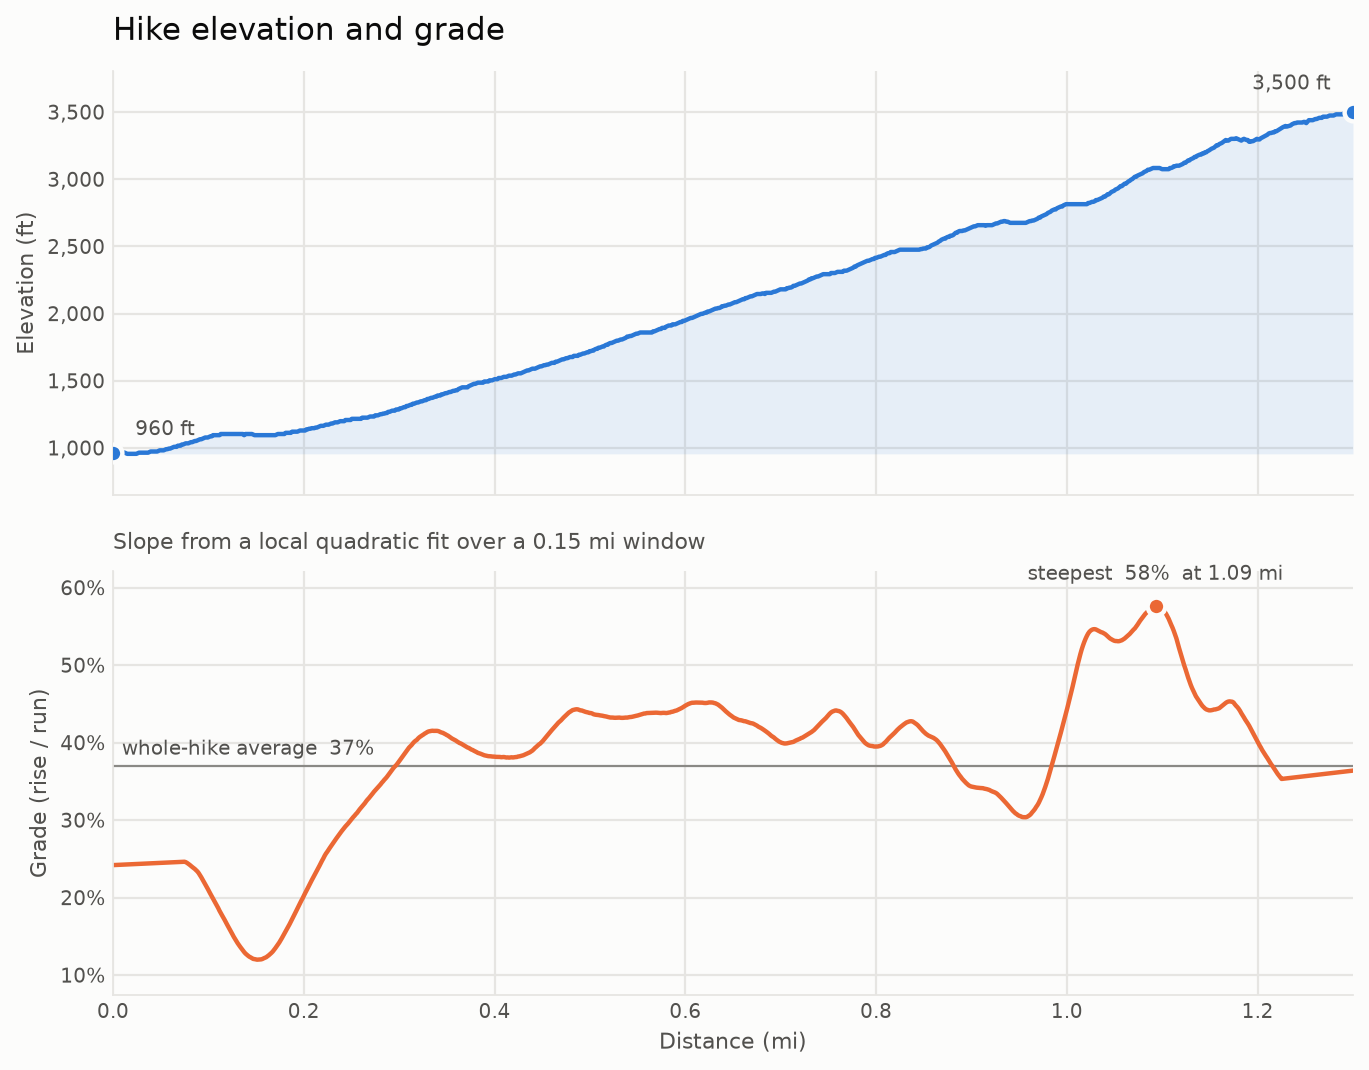
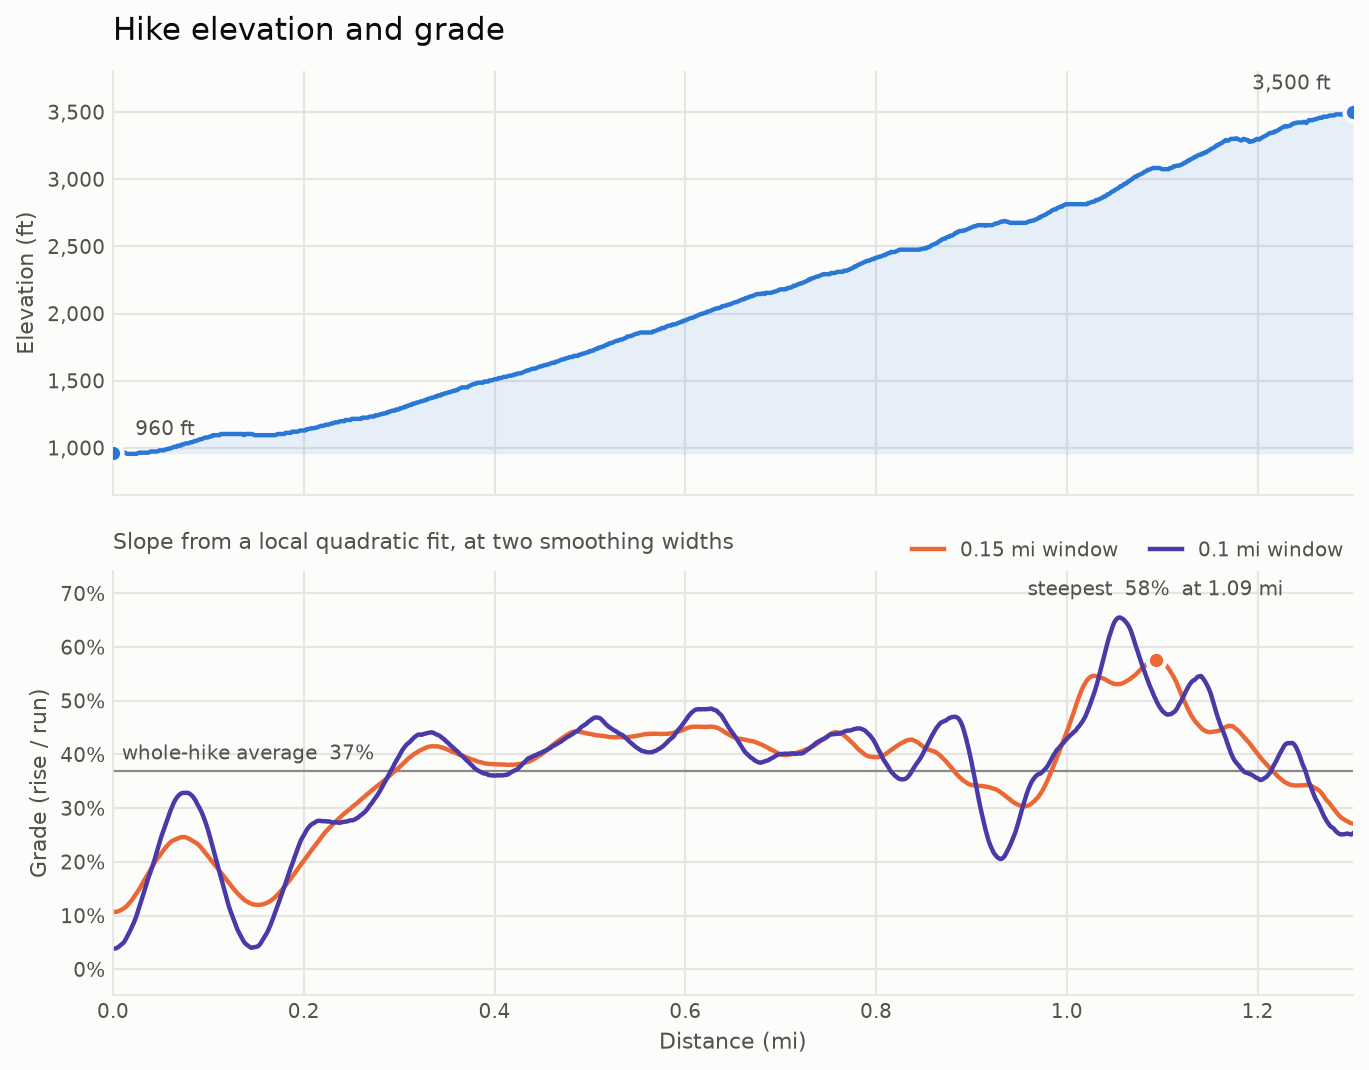
Fix edge handling of the gradient fit, add a 0.1 mi window
Pads the elevation data out a half window at each end so every sample
keeps a centred fit, instead of letting scipy evaluate the end window's
derivative off-centre. --edge selects the padding: point reflection by
default, or the quadratic extrapolation it is compared against.

--windows now defaults to 0.1 and 0.15 mi, with the broadest window
holding the first color slot so it keeps its hue as others are added.

Claude-Session: https://claude.ai/code/session_0124nTYy52PLWwbTnFQHTXTj

Changed region(s): [[0.0307, 0.4935, 0.9817, 0.9252]]

diff --git a/scripts/hike-elevation/analyze_gradient.py b/scripts/hike-elevation/analyze_gradient.py
@@ -40,7 +40,8 @@ GRID = "#e6e5e2"
 # Color follows the quantity: elevation is always slot 1, grade always slot 2,
 # so the two panels never trade hues. Extra smoothing windows take later slots.
 ELEVATION = "#2a78d6"
-GRADE = ("#eb6834", "#2a78d6", "#1baf7a")
+# The broadest window keeps slot 1, so adding a tighter one does not repaint it.
+GRADE = ("#eb6834", "#4a3aa7", "#1baf7a")
 
 
 def load(path: str):
@@ -51,12 +52,47 @@ def load(path: str):
     return x_mi, np.array([float(r[key]) for r in rows]), key
 
 
-def grade(x_mi: np.ndarray, y_ft: np.ndarray, window_mi: float) -> np.ndarray:
-    """Percent grade from a local quadratic fit over a window_mi-wide window."""
+def extend(y: np.ndarray, half: int, edge: str) -> np.ndarray:
+    """Pad y by `half` samples at each end so the fit stays centred there."""
+    half = min(half, len(y) - 1)
+    if edge == "reflect":
+        # Point reflection through the endpoint: y[-k] = 2*y[0] - y[k]. It
+        # continues the profile's slope across the boundary and flips its
+        # curvature, which is the standard extension for a derivative filter.
+        return np.pad(y, half, mode="reflect", reflect_type="odd")
+    if edge == "poly":
+        # Quadratic fitted to the outermost half-window and extrapolated out.
+        # Note this reads the curvature of the end segment as a trend to
+        # continue, so a profile that starts flat and steepens extrapolates
+        # to a negative grade before its first sample.
+        fit = max(3, half)
+        left = np.polyval(np.polyfit(np.arange(fit), y[:fit], 2),
+                          np.arange(-half, 0))
+        right = np.polyval(np.polyfit(np.arange(len(y) - fit, len(y)), y[-fit:], 2),
+                           np.arange(len(y), len(y) + half))
+        return np.concatenate([left, y, right])
+    raise ValueError(f"unknown edge mode {edge!r}")
+
+
+def grade(x_mi: np.ndarray, y_ft: np.ndarray, window_mi: float,
+          edge: str = "reflect") -> np.ndarray:
+    """Percent grade from a local quadratic fit over a window_mi-wide window.
+
+    Within a half-window of each end there is no centred window to fit. With
+    `edge="interp"` scipy fits the end window once and evaluates its derivative
+    off-centre, which swings hard where the profile curves. The other modes
+    extend the elevation data instead, so every sample keeps a centred fit.
+    """
     step_ft = float(np.mean(np.diff(x_mi))) * FEET_PER_MILE
     width = int(round(window_mi * FEET_PER_MILE / step_ft))
     width = max(5, width | 1)  # odd, and wide enough for a quadratic
-    slope = savgol_filter(y_ft, width, polyorder=2, deriv=1, delta=step_ft)
+    if edge == "interp":
+        slope = savgol_filter(y_ft, width, polyorder=2, deriv=1, delta=step_ft)
+    else:
+        half = min(width // 2, len(y_ft) - 1)
+        padded = extend(y_ft, half, edge)
+        slope = savgol_filter(padded, width, polyorder=2, deriv=1,
+                              delta=step_ft)[half:len(padded) - half]
     return slope * 100.0
 
 
@@ -65,10 +101,14 @@ def main(argv: list[str] | None = None) -> int:
                                 formatter_class=argparse.RawDescriptionHelpFormatter)
     p.add_argument("csv", help="output of digitize_elevation.py")
     p.add_argument("-o", "--out", default="gradient.png")
-    p.add_argument("--windows", type=float, nargs="+", default=(0.15,),
+    p.add_argument("--windows", type=float, nargs="+", default=(0.10, 0.15),
                    metavar="MILES",
                    help="smoothing window width(s) in miles; pass more than "
                         "one to compare them on the same axis")
+    p.add_argument("--edge", choices=("reflect", "poly", "interp"),
+                   default="reflect",
+                   help="how the fit is closed off within a half-window of "
+                        "each end (see grade())")
     p.add_argument("--trim", type=int, default=0,
                    help="drop this many samples from each end before fitting; "
                         "the outermost columns of a screenshot are often "
@@ -80,7 +120,9 @@ def main(argv: list[str] | None = None) -> int:
     if args.trim:
         x, y = x[args.trim:-args.trim], y[args.trim:-args.trim]
     unit = "ft" if key == "y_ft" else "px"
-    grades = [grade(x, y, w) for w in args.windows]
+    # Widest first, so the broadest window holds the first color slot.
+    windows = sorted(args.windows, reverse=True)
+    grades = [grade(x, y, w, args.edge) for w in windows]
 
     fig, (ax_e, ax_g) = plt.subplots(
         2, 1, figsize=(10, 7.5), dpi=160, sharex=True,
@@ -120,21 +162,21 @@ def main(argv: list[str] | None = None) -> int:
                   (x[0], mean_grade), textcoords="offset points", xytext=(4, 5),
                   color=INK_2, fontsize=9)
 
-    for col, window, g in zip(GRADE, args.windows, grades):
+    for col, window, g in zip(GRADE, windows, grades):
         ax_g.plot(x, g, color=col, linewidth=2, solid_joinstyle="round",
                   label=f"{window:g} mi window")
     ax_g.set_ylabel("Grade (rise / run)", color=INK_2, fontsize=10)
     ax_g.set_xlabel("Distance (mi)", color=INK_2, fontsize=10)
     ax_g.yaxis.set_major_formatter(FuncFormatter(lambda v, _: f"{v:.0f}%"))
-    if len(args.windows) == 1:
+    if len(windows) == 1:
         # One series needs no legend box -- the subtitle names the window.
         subtitle = (f"Slope from a local quadratic fit over a "
-                    f"{args.windows[0]:g} mi window")
+                    f"{windows[0]:g} mi window")
     else:
-        subtitle = "Slope from a local quadratic fit, at several smoothing widths"
+        subtitle = "Slope from a local quadratic fit, at two smoothing widths"
         # Above the panel, clear of the curves, which fill the plot area.
         leg = ax_g.legend(loc="lower right", bbox_to_anchor=(1.0, 1.0),
-                          ncol=len(args.windows), frameon=False, fontsize=9,
+                          ncol=len(windows), frameon=False, fontsize=9,
                           handlelength=1.6, columnspacing=1.6, borderpad=0)
         for text in leg.get_texts():
             text.set_color(INK_2)
@@ -142,17 +184,19 @@ def main(argv: list[str] | None = None) -> int:
 
     # Mark the steepest point of the broadest series -- the one value the
     # "does it get steeper at the top?" question turns on.
-    broadest = grades[int(np.argmax(args.windows))]
+    broadest = grades[0]
     peak = int(np.argmax(broadest))
-    ax_g.plot([x[peak]], [broadest[peak]], "o", markersize=8,
-              color=GRADE[int(np.argmax(args.windows))],
+    ax_g.plot([x[peak]], [broadest[peak]], "o", markersize=8, color=GRADE[0],
               markeredgecolor=SURFACE, markeredgewidth=2, zorder=3)
+    # Sit the label above every series, so a tighter window cannot run
+    # through the text.
     ax_g.annotate(f"steepest  {broadest[peak]:.0f}%  at {x[peak]:.2f} mi",
-                  (x[peak], broadest[peak]), textcoords="offset points",
-                  xytext=(0, 12), ha="center", color=INK_2, fontsize=9)
+                  (x[peak], max(g.max() for g in grades)),
+                  textcoords="offset points", xytext=(0, 10), ha="center",
+                  color=INK_2, fontsize=9)
 
     ax_g.set_xlim(x[0], x[-1])
-    ax_g.margins(y=0.10)
+    ax_g.margins(y=0.14)
     fig.savefig(args.out, facecolor=SURFACE, bbox_inches="tight")
 
     # A short numeric read-out, so the picture is not the only evidence.
@@ -167,19 +211,19 @@ def main(argv: list[str] | None = None) -> int:
     # median rather than the minimum.
     quantum = float(np.median(np.diff(levels))) if levels.size > 1 else 0.0
     sigma = quantum / np.sqrt(12.0)  # uniform quantization error
-    for window in args.windows:
+    for window in windows:
         n = max(5, int(round(window * FEET_PER_MILE / step_ft)) | 1)
         # std of the slope from an n-point evenly spaced least-squares line
         noise = sigma * np.sqrt(12.0 / (n * (n * n - 1))) / step_ft * 100
         print(f"  {window:g} mi window ({n} samples): "
               f"digitization noise floor +-{noise:.2f}% grade")
 
-    broad = grades[-1]
+    broad = grades[0]  # section means read off the broadest window
     edges = np.linspace(x[0], x[-1], 5)
     for lo, hi in zip(edges[:-1], edges[1:]):
         sel = (x >= lo) & (x <= hi)
-        print(f"  {lo:.2f}-{hi:.2f} mi: mean grade {broad[sel].mean():5.1f}%"
-              f"  max {broad[sel].max():5.1f}%")
+        print(f"  {lo:.2f}-{hi:.2f} mi ({windows[0]:g} mi window): "
+              f"mean grade {broad[sel].mean():5.1f}%  max {broad[sel].max():5.1f}%")
     return 0
 
 

diff --git a/scripts/hike-elevation/README.md b/scripts/hike-elevation/README.md
@@ -47,9 +47,27 @@ python3 analyze_gradient.py profile.csv -o gradient.png
 
 The slope comes from a Savitzky-Golay fit: a local least-squares polynomial
 whose analytic derivative is evaluated at each sample. `--windows` sets the
-window width in miles (default 0.15); pass more than one to compare widths on
-the same axis. `--trim N` drops N samples from each end, where a screenshot's
-outermost columns are often clipped by the image border.
+window width(s) in miles (default `0.1 0.15`); the broadest one keeps the first
+color slot, so adding a tighter window does not repaint the one already on the
+chart. `--trim N` drops N samples from each end, where a screenshot's outermost
+columns are often clipped by the image border.
+
+### Closing off the ends
+
+Within a half-window of each end there is no centred window left to fit, and
+the choice made there visibly changes the answer. `--edge` picks it:
+
+| mode | what it does | grade at 0 / 1.3 mi (0.15 mi window) |
+| --- | --- | --- |
+| `reflect` (default) | pads by point reflection through the endpoint, `y[-k] = 2*y[0] - y[k]`: slope carries across the boundary, curvature flips | 11% / 27% |
+| `poly` | pads with a quadratic fitted to the outermost half-window and extrapolated | -11% / 22% |
+| `interp` | scipy's own: fits the end window once, evaluates its derivative off-centre | 24% / 36% |
+
+For this profile `reflect` is the one to use. `poly` reads the curvature of the
+end segment as a trend to continue, so the flat bench at the start -- which
+steepens as it goes -- extrapolates to a *negative* grade before the first
+sample, and `interp` reports 36% at a summit whose last tenth of a mile
+averages 28%.
 
 The script also prints the digitization noise floor. The pixel grid alone puts
 only +-0.27% grade into a 0.05 mi window, so narrow windows are not measuring
